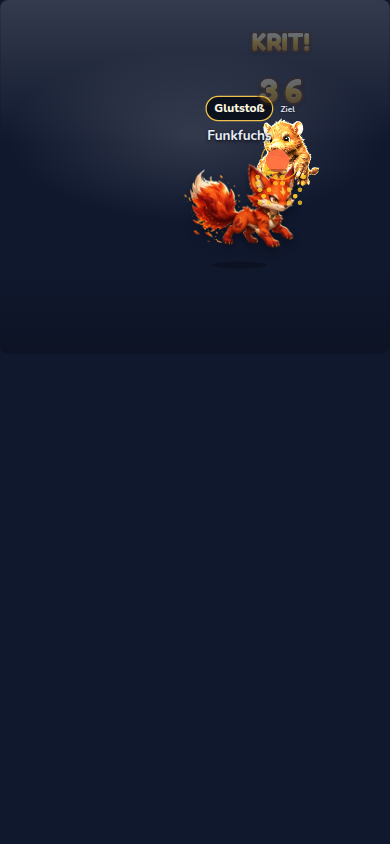
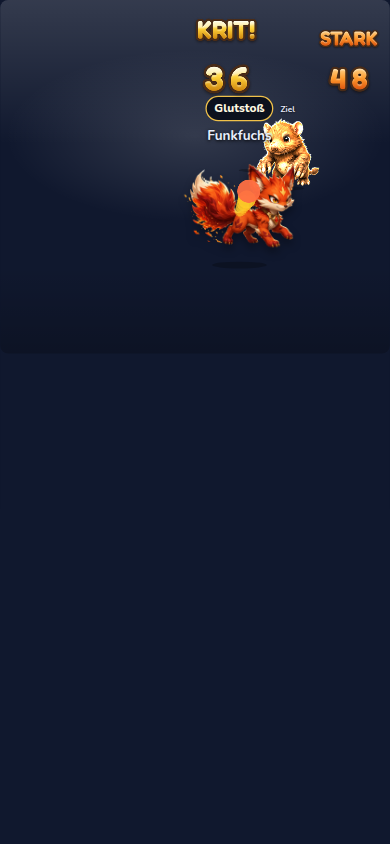
Atlas-Zahlen ungetönt und erst spät ausblenden.
Die Frames behalten ihre Atlas-Farben. Die Deckkraft bleibt bis zu den letzten 30 Prozent der Flugzeit voll, und die Zahl steht über dem Gegner.

Changed region(s): [[0.4923, 0.0, 0.9846, 0.1232], [0.5846, 0.154, 0.8, 0.2773]]

diff --git a/src/adventure/app.ts b/src/adventure/app.ts
@@ -230,8 +230,12 @@ function showFxDemo(kind: 'fire' | 'hit' | 'ko'): void {
         const picture = foe.querySelector('img')
         if (picture instanceof HTMLImageElement) picture.style.filter = 'brightness(2.8)'
         foe.style.transform = `translate(-50%, -100%) translate(${hitShake(40)}px, 0px) scale(0.72)`
-        const shown = showHitNumber(to.x, to.y - 80, 36, 'crit', numberHoldMs(1))
-        if (!shown) spawnFloat(document.getElementById('floats'), { amount: 36, crit: true, band: 'strong' }, typeFx('fire').base, '70%', numberHoldMs(1))
+        const head = numberPoint(foe, fx)
+        const critShown = showHitNumber(head.x - 170, head.y, 36, 'crit', numberHoldMs(1))
+        const strongShown = showHitNumber(head.x + 170, head.y, 48, 'strong', numberHoldMs(1))
+        if (!critShown) spawnFloat(document.getElementById('floats'), { amount: 36, crit: true, band: 'strong' }, typeFx('fire').base, '42%', numberHoldMs(1))
+        if (!strongShown) spawnFloat(document.getElementById('floats'), { amount: 48, crit: false, band: 'strong' }, typeFx('fire').base, '78%', numberHoldMs(1))
+        window.setTimeout(() => document.getElementById('battle')?.setAttribute('data-digits', 'ready'), 90)
       }
     }
     window.setTimeout(() => {
@@ -705,7 +709,8 @@ function play(outcome: EncounterOutcome, speed: Speed, done: () => void): void {
               showMove(attackTitle(attackerId, hit.type), hit.from === 'ally' ? allyActor : foeActor, k)
               const grade = hitGrade(hit.band, hit.crit)
               const hold = numberHoldMs(speed)
-              const shown = showHitNumber(to.x, to.y - 70, hit.amount, grade, hold)
+              const above = numberPoint(hit.from === 'ally' ? foeActor : allyActor, fxHost)
+              const shown = showHitNumber(above.x, above.y, hit.amount, grade, hold)
               if (!shown) spawnFloat(floats, hit, typeFx(hit.type).base, hit.from === 'ally' ? '70%' : '30%', hold)
             }
             const struck = hit.from === 'ally' ? foeActor : allyActor
@@ -785,6 +790,18 @@ function play(outcome: EncounterOutcome, speed: Speed, done: () => void): void {
 }
 
 const floatPool: HTMLDivElement[] = []
+
+function numberPoint(actor: HTMLElement, host: HTMLElement): { x: number; y: number } {
+  const pt = stagePoint(actor, host)
+  const img = actor.querySelector('img')
+  if (!(img instanceof HTMLElement)) return { x: pt.x, y: pt.y - 220 }
+  const box = img.getBoundingClientRect()
+  const frame = host.getBoundingClientRect()
+  const height = host.clientHeight || frame.height || 1
+  const top = ((box.top - frame.top) / (frame.height || 1)) * height
+  // Crit frames hang about 30px under the baseline and the label sits ~200px above it.
+  return { x: pt.x, y: Math.max(220, top - 48) }
+}
 
 function stagePoint(actor: HTMLElement, host: HTMLElement): { x: number; y: number } {
   const box = actor.getBoundingClientRect()

diff --git a/src/battle/phaserFx.ts b/src/battle/phaserFx.ts
@@ -9,6 +9,7 @@ import {
   hitLook,
   labelFrame,
   layoutDigits,
+  numberAlpha,
   type HitGrade
 } from './hitReadout'
 import { effectScale, flightMs, FX_SIZE, particleBudget, POOL_SIZE, typeFx, type TypeFxDef } from './typeFx'
@@ -150,11 +151,11 @@ class FxScene extends Phaser.Scene {
     placed.forEach((item, index) => {
       const glyph = slot.glyphs[index]
       if (!glyph || !texture.has(item.frame)) return
-      glyph.setTexture(DIGIT_ATLAS_KEY, item.frame).setVisible(true).setPosition(-total / 2 + item.x, -style.baseline)
+      glyph.setTexture(DIGIT_ATLAS_KEY, item.frame).clearTint().setAlpha(1).setVisible(true).setPosition(-total / 2 + item.x, -style.baseline)
     })
     const word = labelFrame(grade)
     if (word && texture.has(word)) {
-      slot.label.setTexture(DIGIT_ATLAS_KEY, word).setVisible(true).setPosition(0, -style.frameHeight - 4)
+      slot.label.setTexture(DIGIT_ATLAS_KEY, word).clearTint().setAlpha(1).setVisible(true).setPosition(0, -style.frameHeight - 4)
     }
   }
 
@@ -171,7 +172,7 @@ class FxScene extends Phaser.Scene {
       const rise = 90 * t
       const bounce = slot.bounce ? Math.sin(age / 70) * 10 * (1 - t) : 0
       slot.root.setPosition(slot.x, slot.y - rise + bounce)
-      slot.root.setAlpha(t > 0.72 ? Math.max(0, 1 - (t - 0.72) / 0.28) : 1)
+      slot.root.setAlpha(numberAlpha(t))
     }
   }
 

diff --git a/src/battle/hitReadout.test.ts b/src/battle/hitReadout.test.ts
@@ -9,6 +9,7 @@ import {
   layoutDigits,
   hitLook,
   hitstopMs,
+  numberAlpha,
   numberHoldMs
 } from './hitReadout'
 
@@ -43,6 +44,13 @@ describe('hit readout styles', () => {
     expect(numberHoldMs(1)).toBe(600)
     expect(numberHoldMs(2)).toBe(300)
     expect(numberHoldMs(3)).toBe(200)
+  })
+
+  it('keeps full alpha until the last 30 percent of the float', () => {
+    expect(numberAlpha(0)).toBe(1)
+    expect(numberAlpha(0.7)).toBe(1)
+    expect(numberAlpha(0.85)).toBeCloseTo(0.5)
+    expect(numberAlpha(1)).toBe(0)
   })
 
   it('shakes 4, 8 and 12 px and halves that when reduced or at ×3', () => {

diff --git a/src/battle/hitReadout.ts b/src/battle/hitReadout.ts
@@ -102,6 +102,13 @@ export function numberHoldMs(speed: number): number {
   return NUMBER_FLOAT_MS / pace
 }
 
+/** Full cover until the last 30% of the float, then a linear fade. */
+export function numberAlpha(t: number): number {
+  if (t <= 0.7) return 1
+  if (t >= 1) return 0
+  return (1 - t) / 0.3
+}
+
 export function cameraShake(grade: HitGrade, kind: ImpactKind, opts: ImpactOpts): ShakeSpec {
   const base = kind === 'ult' ? SHAKE.ult : grade === 'crit' || grade === 'strong' ? SHAKE.heavy : SHAKE.normal
   if (opts.reduced || opts.speed >= 3) return { ms: base.ms, px: base.px * 0.5 }
